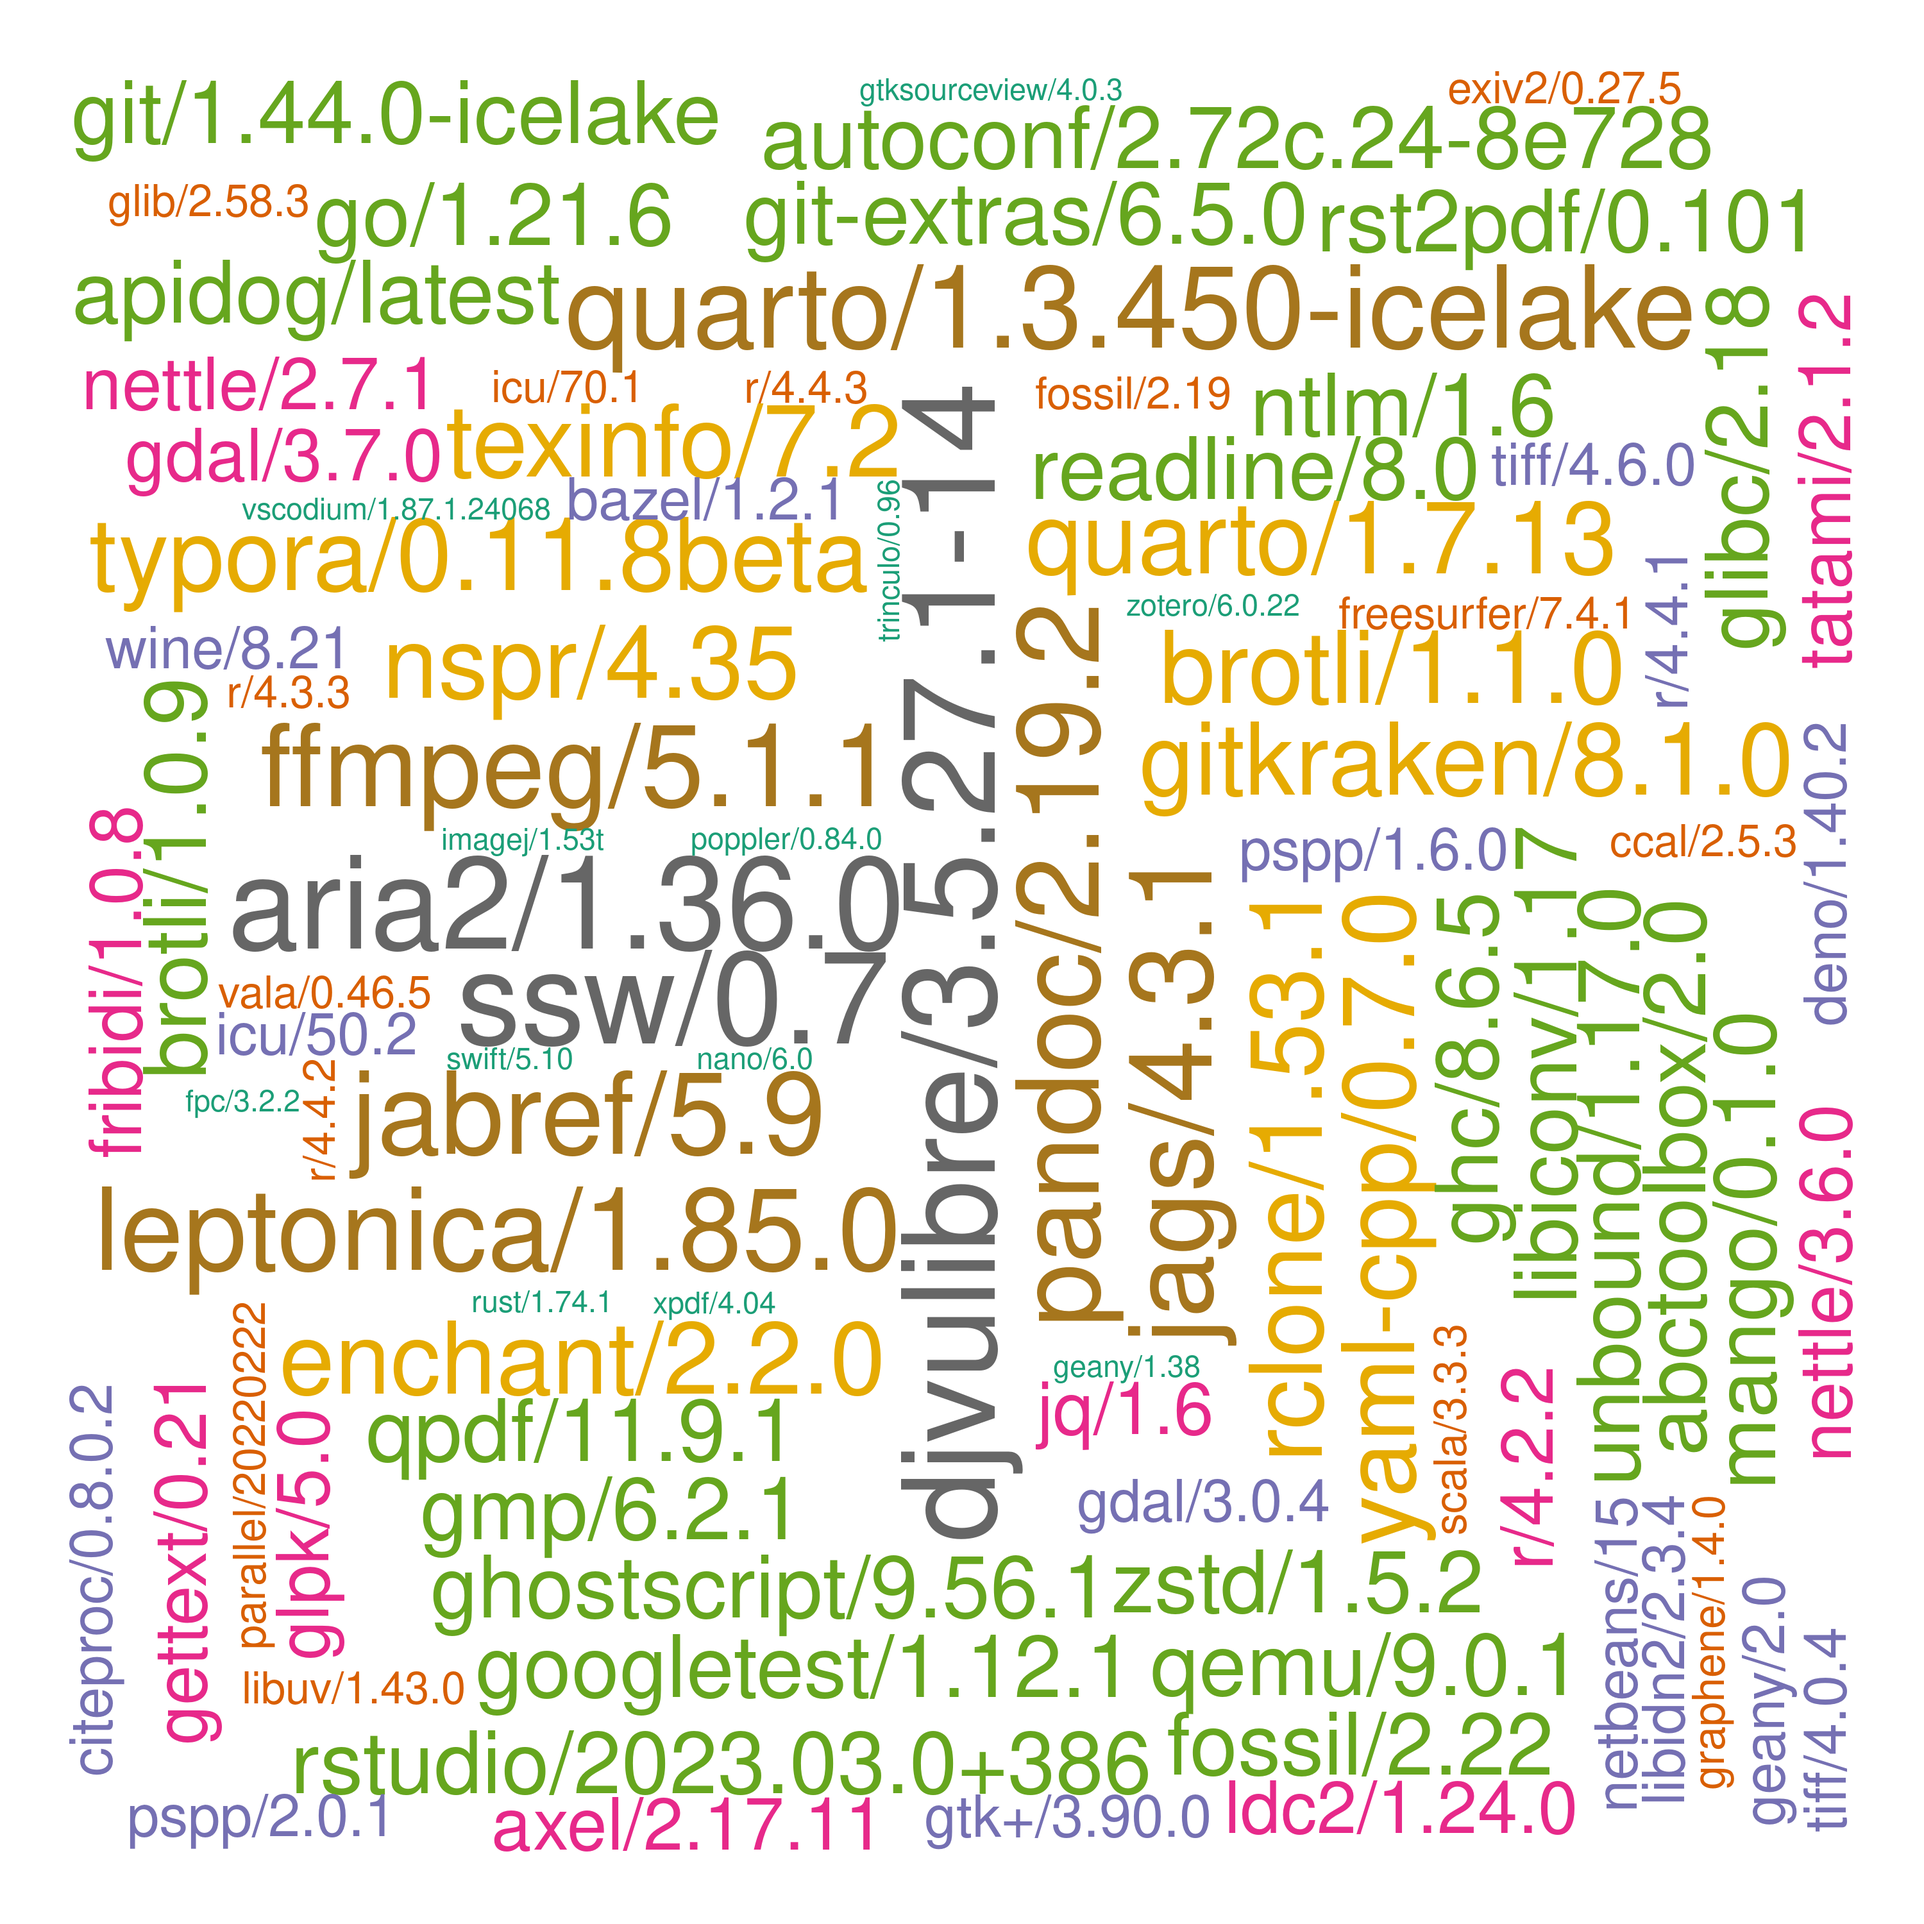
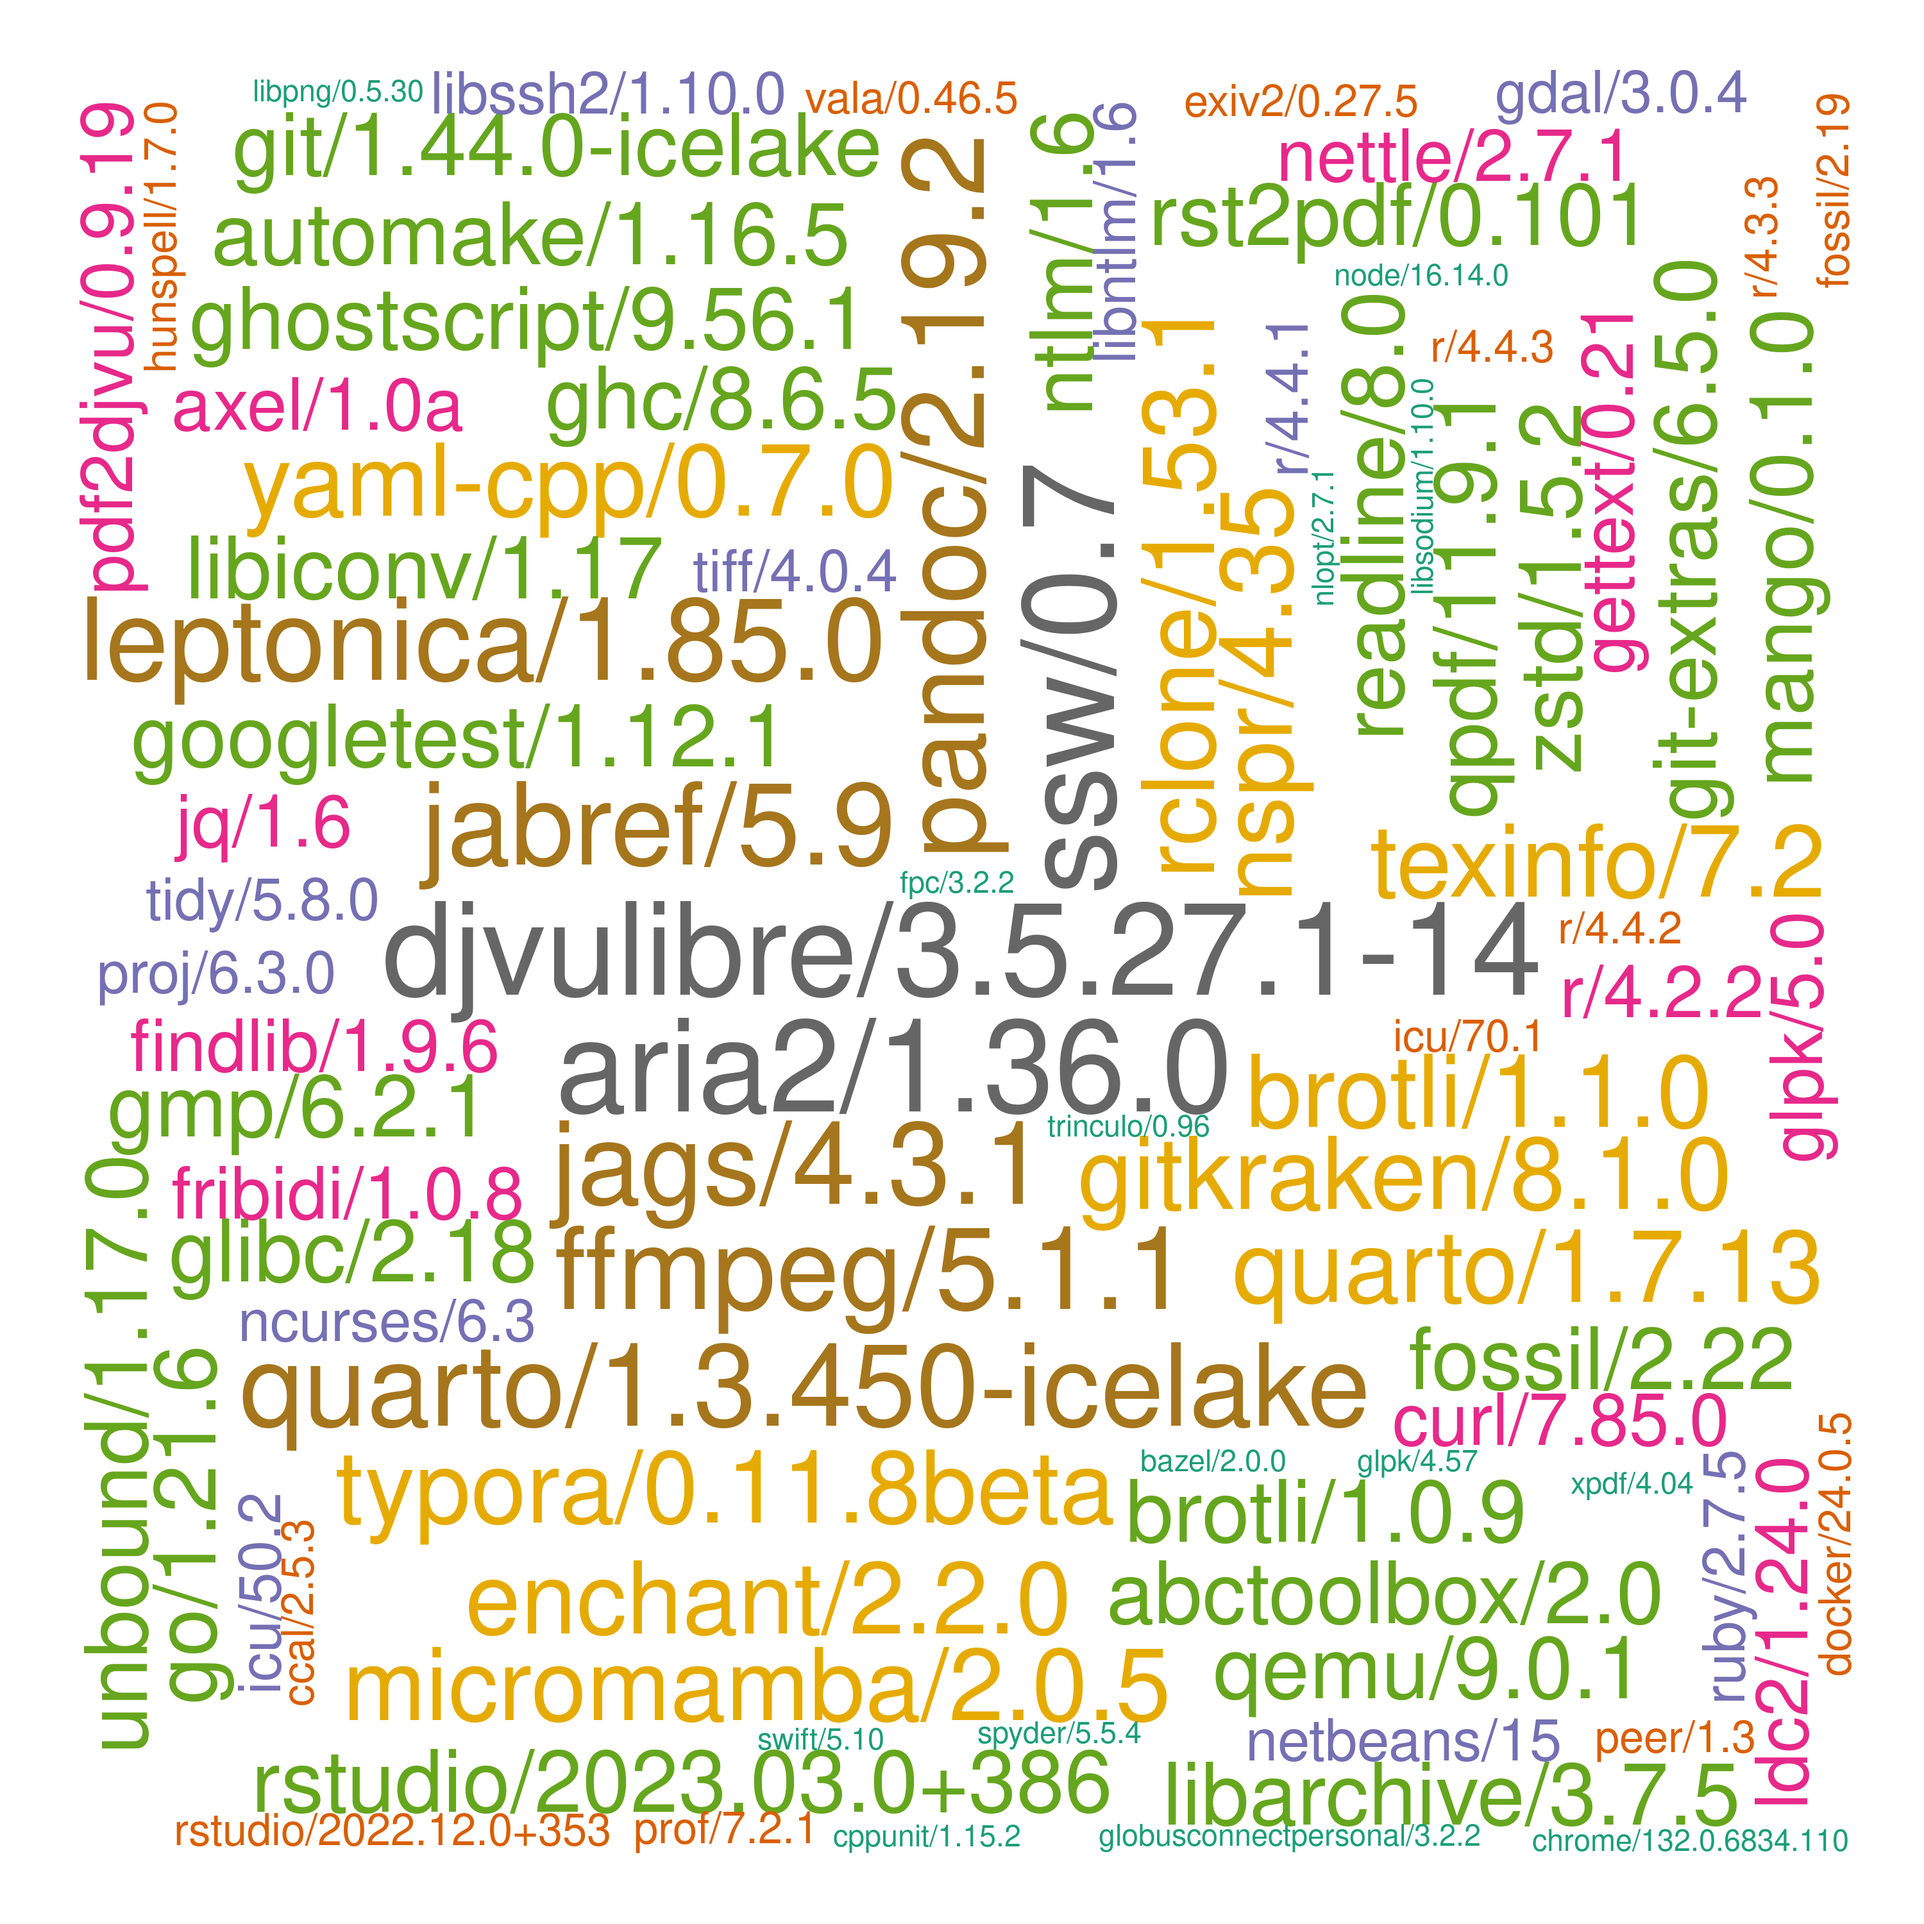
./

diff --git a/systems/ceuadmin.md b/systems/ceuadmin.md
@@ -54,40 +54,40 @@ The current list is as follows,
 [145] "libssh2"                "libuv"                  "libxml2"                "libxslt"
 [149] "linux"                  "locuszoom"              "LVM2"                   "MAGENTA"
 [153] "magma"                  "Mango"                  "MaxQuant"               "Mega2"
-[157] "metal"                  "MetaMorpheus"           "Miniconda3"             "MONSTER"
-[161] "MORGAN"                 "MR-MEGA"                "msamanda"               "MsCAVIAR"
-[165] "MSFragger"              "MS-GF+"                 "msms"                   "nano"
-[169] "ncbi-vdb"               "ncurses"                "netbeans"               "nettle"
-[173] "nextflow"               "nginx"                  "NLopt"                  "node"
-[177] "nspr"                   "ntlm"                   "ocaml"                  "ollama"
-[181] "oniguruma"              "opam"                   "openjdk"                "OpenMS"
-[185] "openssh"                "openssl"                "osca"                   "p7zip-zstd"
-[189] "PAINTOR"                "pandoc"                 "pandoc-citeproc"        "pango"
-[193] "parallel"               "Pascal"                 "patchelf"               "pcre2"
-[197] "pdf2djvu"               "pdfjam"                 "peer"                   "Perseus"
-[201] "pgsc_calc"              "phenoscanner"           "PhySO"                  "picard"
-[205] "pigz"                   "plink"                  "plink-bgi"              "plinkseq"
-[209] "podman"                 "PoGo"                   "polyphen"               "poppler"
-[213] "popt"                   "proj"                   "PRSice"                 "pspp"
-[217] "pulsar"                 "PWCoCo"                 "pwiz"                   "qctool"
-[221] "qemu"                   "qpdf"                   "qt"                     "qtcreator"
-[225] "QTLtools"               "quarto"                 "quicktest"              "R"
-[229] "raremetal"              "rclone"                 "readline"               "regenie"
-[233] "regtools"               "RHHsoftware"            "rst2pdf"                "rstudio"
-[237] "rtmpdump"               "ruby"                   "rust"                   "sage"
-[241] "samtools"               "Scala"                  "seqkit"                 "shapeit"
-[245] "singularity"            "SMR"                    "snakemake"              "SNP2HLA"
-[249] "snptest"                "spread-sheet-widget"    "spyder"                 "sqlite"
-[253] "sra-tools"              "sshpass"                "ssw"                    "STAR"
-[257] "stata"                  "SurvivalAnalysis"       "SurvivalKit"            "Swift"
-[261] "SYMPHONY"               "tabix"                  "tandem"                 "tatami"
-[265] "tesseract"              "texinfo"                "ThermoRawFileParser"    "ThermoRawFileParserGUI"
-[269] "thunderbird"            "tidy"                   "tiff"                   "trinculo"
-[273] "trousers"               "Typora"                 "unbound"                "vala"
-[277] "VarScan"                "vcftools"               "VEGAS2"                 "verifyBamID"
-[281] "VSCode"                 "VSCodium"               "vte"                    "wine"
-[285] "wrk"                    "xpdf"                   "yaml-cpp"               "Zotero"
-[289] "zstd"
+[157] "metal"                  "MetaMorpheus"           "micromamba"             "Miniconda3"
+[161] "MONSTER"                "MORGAN"                 "MR-MEGA"                "msamanda"
+[165] "MsCAVIAR"               "MSFragger"              "MS-GF+"                 "msms"
+[169] "nano"                   "ncbi-vdb"               "ncurses"                "netbeans"
+[173] "nettle"                 "nextflow"               "nginx"                  "NLopt"
+[177] "node"                   "nspr"                   "ntlm"                   "ocaml"
+[181] "ollama"                 "oniguruma"              "opam"                   "openjdk"
+[185] "OpenMS"                 "openssh"                "openssl"                "osca"
+[189] "p7zip-zstd"             "PAINTOR"                "pandoc"                 "pandoc-citeproc"
+[193] "pango"                  "parallel"               "Pascal"                 "patchelf"
+[197] "pcre2"                  "pdf2djvu"               "pdfjam"                 "peer"
+[201] "Perseus"                "pgsc_calc"              "phenoscanner"           "PhySO"
+[205] "picard"                 "pigz"                   "plink"                  "plink-bgi"
+[209] "plinkseq"               "podman"                 "PoGo"                   "polyphen"
+[213] "poppler"                "popt"                   "proj"                   "PRSice"
+[217] "pspp"                   "pulsar"                 "PWCoCo"                 "pwiz"
+[221] "qctool"                 "qemu"                   "qpdf"                   "qt"
+[225] "qtcreator"              "QTLtools"               "quarto"                 "quicktest"
+[229] "R"                      "raremetal"              "rclone"                 "readline"
+[233] "regenie"                "regtools"               "RHHsoftware"            "rst2pdf"
+[237] "rstudio"                "rtmpdump"               "ruby"                   "rust"
+[241] "sage"                   "samtools"               "Scala"                  "seqkit"
+[245] "shapeit"                "singularity"            "SMR"                    "snakemake"
+[249] "SNP2HLA"                "snptest"                "spread-sheet-widget"    "spyder"
+[253] "sqlite"                 "sra-tools"              "sshpass"                "ssw"
+[257] "STAR"                   "stata"                  "SurvivalAnalysis"       "SurvivalKit"
+[261] "Swift"                  "SYMPHONY"               "tabix"                  "tandem"
+[265] "tatami"                 "tesseract"              "texinfo"                "ThermoRawFileParser"
+[269] "ThermoRawFileParserGUI" "thunderbird"            "tidy"                   "tiff"
+[273] "trinculo"               "trousers"               "Typora"                 "unbound"
+[277] "vala"                   "VarScan"                "vcftools"               "VEGAS2"
+[281] "verifyBamID"            "VSCode"                 "VSCodium"               "vte"
+[285] "wine"                   "wrk"                    "xpdf"                   "yaml-cpp"
+[289] "Zotero"                 "zstd"
 ```
 
 These are wrapped up as :star::star::star: **[modules](https://modules.readthedocs.io/en/latest/index.html)** :star::star::star:.

diff --git a/systems/setup.md b/systems/setup.md
@@ -372,6 +372,7 @@ All entries are ordered chronologically.
 | 2025-03-01  | leptonica/1.85.0                 | Generic              |
 | ""          | tesseract/5.5.0                  | Generic[^tesseract]  |
 | 2025-03-02  | apidog/latest                    | Generic[^apidog]     |
+| 2025-03-03  | micromamba/2.0.5                 | Generic[^micromamba] |
 
 \* CEU or approved users only.
 
@@ -1836,4 +1837,35 @@ They are generated from script [setup.sh](setup.sh),
     unzip  Apidog-linux-latest.zip
     ./Apidog.AppImage  --appimage-extract
     ./apidog --no-sandbox --help
+    ```
+
+[^micromamba]: **micromamba**
+
+    Web: <https://mamba.readthedocs.io/en/latest/index.html>
+
+    ```bash
+    export dst=/rds/project/rds-4o5vpvAowP0/software/micromamba/2.0.5
+    mkdir -p $dst && cd $dst
+    curl -Ls https://micro.mamba.pm/api/micromamba/linux-64/latest | \
+    tar -xvj bin/micromamba
+    export MAMBA_ROOT_PREFIX=$dst
+    eval "$(./bin/micromamba shell hook -s posix)"
+    micromamba activate
+    micromamba install python=3.13 jupyter -c conda-forge
+    export MAMBA_ROOT_PREFIX=$CEUADMIN/micromamba/2.0.5
+    mkdir $CEUADMIN/micromamba
+    ln -sf $dst $CEUADMIN/micromamba/2.0.5
+    # current shell
+    eval "$(micromamba shell hook --shell bash)"
+    micromamba activate
+    micromamba deactivate
+    ```
+
+    Note that to save space, a symbolic link is created from the project space. The usual environment creation also works,
+
+    ```bash
+    micromamba create -n micromamba xtensor -c conda-forge
+    micromamba activate micromamba
+    micromamba config append channels conda-forge
+    micromamba config set channel_priority strict
     ```

diff --git a/systems/languages.md b/systems/languages.md
@@ -411,6 +411,21 @@ source activate miniconda37
 and follow [Autoencoder in Keras tutorial](https://www.datacamp.com/community/tutorials/autoencoder-keras-tutorial) on
 data from <http://yann.lecun.com/exdb/mnist/>. The following attempts to install `longchain-community`.
 
+### Micromamba
+
+An attempt has been made with respect to 2.0.5 and Python/3.13,
+
+```bash
+module load ceuadmin/micromamba
+# currect shell
+eval "$(micromamba shell hook --shell bash)"
+micromamba activate
+micromamba deactivate
+# or
+micromamba create -n micromamba xtensor -c conda-forge
+micromamba activate micromamba
+```
+
 ### Jupyter notebook
 
 It can be started as follows,
